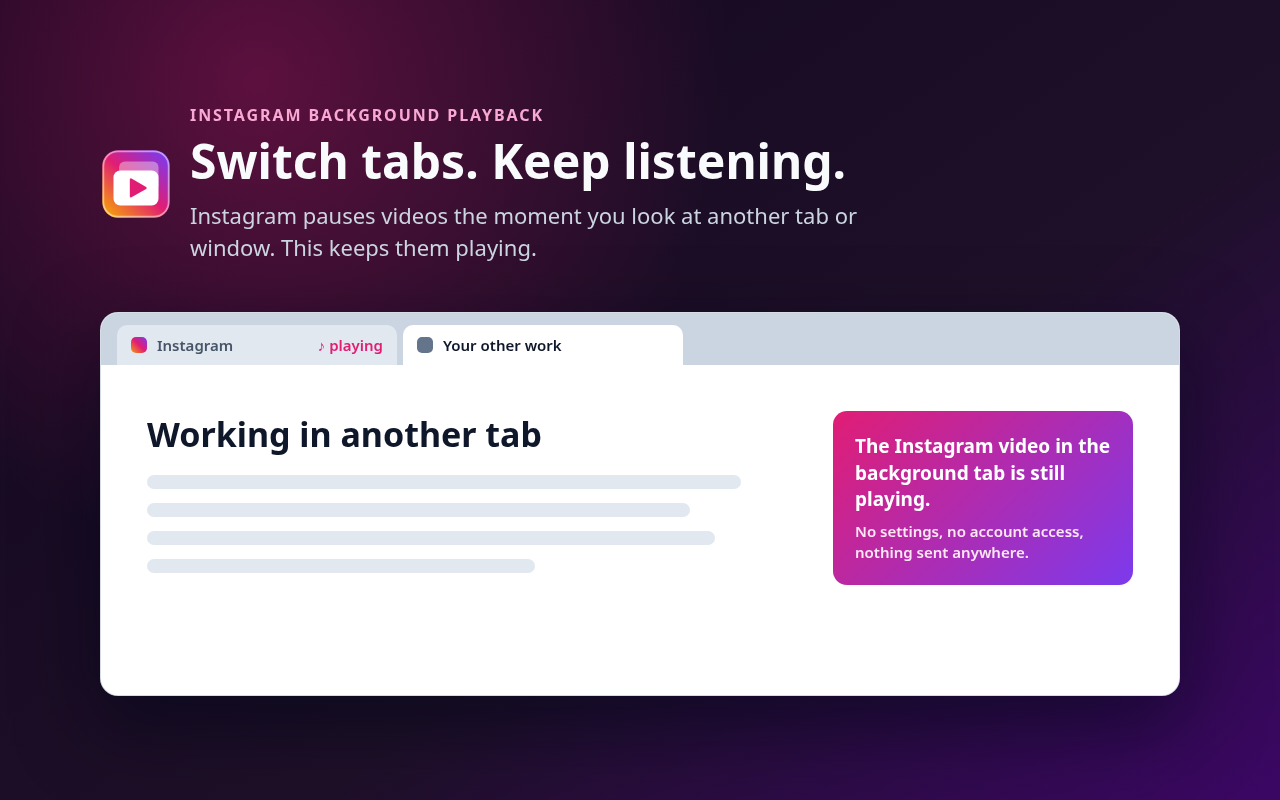
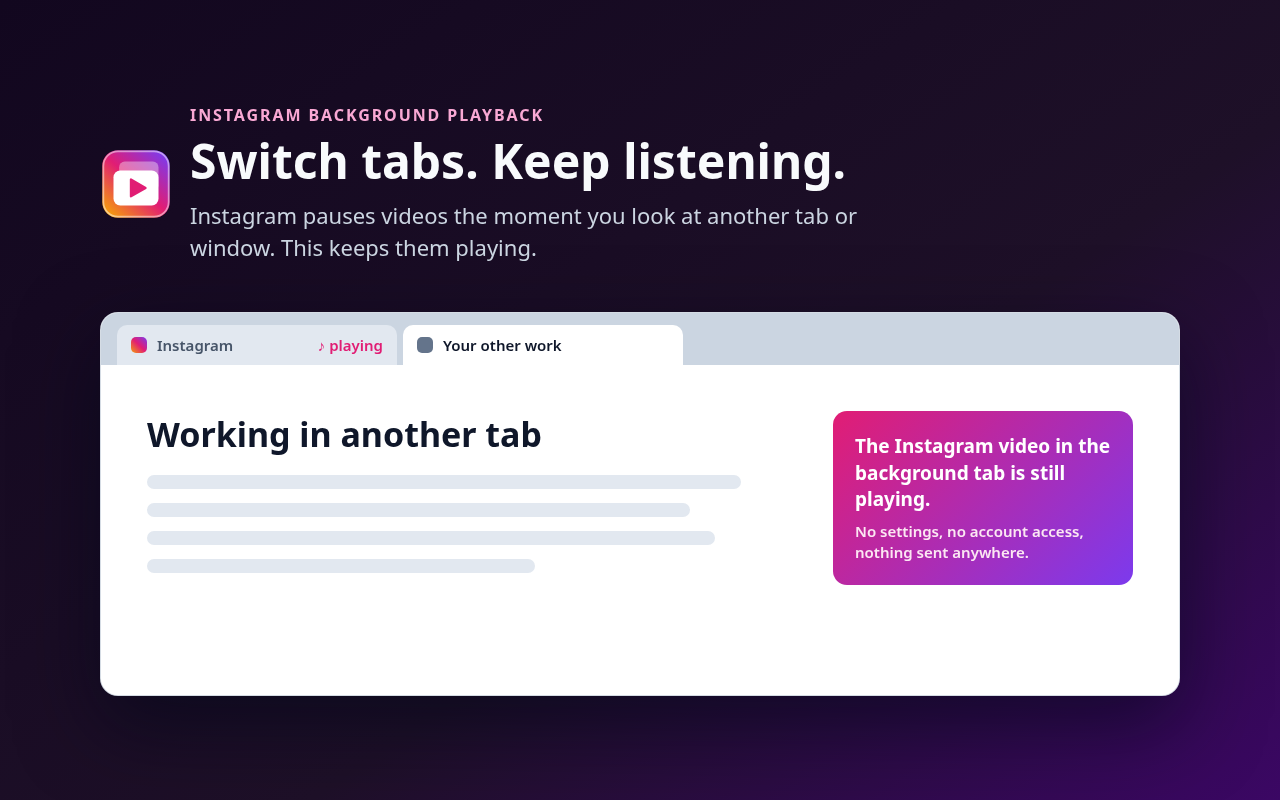
Drop the radial gradient from the store asset background

Changed region(s): [[0.0, 0.0, 0.4688, 0.4062]]

diff --git a/store-assets/listing.css b/store-assets/listing.css
@@ -18,9 +18,7 @@ body {
   margin: 0;
   min-height: 100vh;
   overflow: hidden;
-  background:
-    radial-gradient(circle at 20% 10%, rgb(225 29 116 / 35%), transparent 38%),
-    linear-gradient(145deg, #12071f, #1e1028 60%, #3b0764);
+  background: linear-gradient(145deg, #12071f, #1e1028 60%, #3b0764);
   color: #f8fafc;
 }
 
